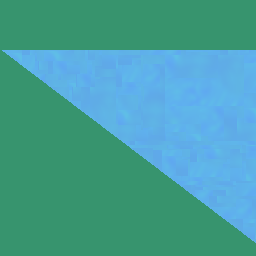
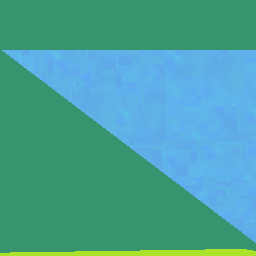
Map information now displayed in bottom-left

Changed region(s): [[0.0, 0.9688, 1.0, 1.0]]

diff --git a/Code/Editor/editor_update.py b/Code/Editor/editor_update.py
@@ -1,6 +1,6 @@
 import math
 from copy import deepcopy
-from Code.utilities import CaseBreak, point_is_in_ltwh, move_number_to_desired_range, percent_to_rgba, base10_to_hex, add_characters_to_front_of_string, get_time, switch_to_base10, rgba_to_glsl, get_rect_minus_borders, round_scaled, COLORS
+from Code.utilities import CaseBreak, point_is_in_ltwh, move_number_to_desired_range, percent_to_rgba, base10_to_hex, add_characters_to_front_of_string, get_time, switch_to_base10, rgba_to_glsl, get_rect_minus_borders, round_scaled, get_text_height, get_text_width, COLORS
 from Code.Editor.editor_utilities import MarqueeRectangleTool, LassoTool, PencilTool, SprayTool, HandTool, BucketTool, LineTool, CurvyLineTool, RectangleTool, EllipseTool, BlurTool, JumbleTool, EyedropTool
 
 
@@ -654,6 +654,8 @@ def update_tools(Singleton, Api, PATH, Screen, gl_context, Render, Time, Keys, C
 def update_tool_attributes(Singleton, Api, PATH, Screen, gl_context, Render, Time, Keys, Cursor):
     # Singleton.tool_attribute_ltwh
     current_tool = Singleton.map.current_tool
+    # information in footer
+    information_lt = [Singleton.palette_padding, Singleton.footer_ltwh[1]]
     # Render.basic_rect_ltwh_with_color_to_quad(Screen, gl_context, 'blank_pixel', Singleton.tool_attribute_ltwh, COLORS['RED'])
 
     try:
@@ -665,6 +667,7 @@ def update_tool_attributes(Singleton, Api, PATH, Screen, gl_context, Render, Tim
                 pass
 
             case PencilTool.INDEX:
+                # brush style
                 # brush thickness
                 Render.basic_rect_ltwh_to_quad(Screen, gl_context, 'brush_shape_circle', [Singleton.tool_attribute_ltwh[0], Singleton.tool_attribute_ltwh[1] + PencilTool.TEXT_PIXEL_THICKNESS, Render.renderable_objects['brush_shape_circle'].ORIGINAL_WIDTH, Render.renderable_objects['brush_shape_circle'].ORIGINAL_HEIGHT])
                 current_tool.brush_thickness_text_input.background_ltwh[0] = Singleton.tool_attribute_ltwh[0] + Render.renderable_objects['brush_shape_circle'].ORIGINAL_WIDTH + PencilTool.TEXT_PIXEL_THICKNESS
@@ -673,6 +676,28 @@ def update_tool_attributes(Singleton, Api, PATH, Screen, gl_context, Render, Tim
                 new_brush_thickness = current_tool.brush_thickness_text_input.current_string
                 if current_tool.brush_thickness_is_valid(new_brush_thickness):
                     current_tool.update_brush_thickness(Render, Screen, gl_context, int(new_brush_thickness))
+                
+                # cursor x, y position
+                if point_is_in_ltwh(Keys.cursor_x_pos.value, Keys.cursor_y_pos.value, Singleton.map.image_space_ltwh):
+                    # crosshair image
+                    CROSSHAIR_PADDING = 4
+                    crosshair_ltwh = [information_lt[0], information_lt[1] + CROSSHAIR_PADDING, Singleton.footer_ltwh[3] - (2 * CROSSHAIR_PADDING), Singleton.footer_ltwh[3] - (2 * CROSSHAIR_PADDING)]
+                    Render.basic_rect_ltwh_to_quad(Screen, gl_context, 'cursor_crosshair', crosshair_ltwh)
+                    information_lt[0] = crosshair_ltwh[0] + crosshair_ltwh[2]
+                    # position of cursor on map
+                    CROSSHAIR_IMAGE_SEPARATION = 12
+                    cursor_x, cursor_y = Singleton.map.get_cursor_position_on_map(Keys)
+                    Render.draw_string_of_characters(Screen, gl_context, f"{cursor_x} {cursor_y}", [information_lt[0] + CROSSHAIR_IMAGE_SEPARATION, information_lt[1] + ((Singleton.footer_ltwh[3] - (get_text_height(Singleton.footer_text_pixel_size) - (2 * Singleton.footer_text_pixel_size))) // 2)], Singleton.footer_text_pixel_size, COLORS['BLACK'])
+                    SEPARATION = 16
+                    information_lt[0] = information_lt[0] + CROSSHAIR_IMAGE_SEPARATION + get_text_width(Render, f"{cursor_x} {cursor_y}", Singleton.footer_text_pixel_size) + SEPARATION
+                # level dimensions image
+                LEVEL_DIMENSIONS_PADDING = 2
+                level_dimensions_padding = [information_lt[0], information_lt[1] + LEVEL_DIMENSIONS_PADDING, Singleton.footer_ltwh[3] - (2 * LEVEL_DIMENSIONS_PADDING), Singleton.footer_ltwh[3] - (2 * LEVEL_DIMENSIONS_PADDING)]
+                Render.basic_rect_ltwh_to_quad(Screen, gl_context, 'level_dimensions', level_dimensions_padding)
+                LEVEL_DIMENSION_SEPARATION = 12
+                information_lt[0] = information_lt[0] + level_dimensions_padding[2] + LEVEL_DIMENSION_SEPARATION
+                # level dimension
+                Render.draw_string_of_characters(Screen, gl_context, f"{Singleton.map.original_map_wh[0]} {Singleton.map.original_map_wh[1]}", [information_lt[0], information_lt[1] + ((Singleton.footer_ltwh[3] - (get_text_height(Singleton.footer_text_pixel_size) - (2 * Singleton.footer_text_pixel_size))) // 2)], Singleton.footer_text_pixel_size, COLORS['BLACK'])
 
             case SprayTool.INDEX:
                 pass

diff --git a/Code/Editor/editor_utilities.py b/Code/Editor/editor_utilities.py
@@ -1598,7 +1598,7 @@ class EditorMap():
             self._calculate_zoom(render_instance, keys_class_instance, horizontal_scroll, vertical_scroll)
 
     def _calculate_zoom(self, render_instance, keys_class_instance, horizontal_scroll, vertical_scroll):
-        original_cursor_x, original_cursor_y = self._get_cursor_position_on_map(keys_class_instance)
+        original_cursor_x, original_cursor_y = self.get_cursor_position_on_map(keys_class_instance)
         cursor_percent_x = (keys_class_instance.cursor_x_pos.value - self.image_space_ltwh[0]) / self.image_space_ltwh[2]
         cursor_percent_y = (keys_class_instance.cursor_y_pos.value - self.image_space_ltwh[1]) / self.image_space_ltwh[3]
 
@@ -1738,7 +1738,7 @@ class EditorMap():
 
                 case PencilTool.INDEX:
                     cursor_on_map = point_is_in_ltwh(keys_class_instance.cursor_x_pos.value, keys_class_instance.cursor_y_pos.value, self.image_space_ltwh)
-                    pos_x, pos_y = self._get_cursor_position_on_map(keys_class_instance)
+                    pos_x, pos_y = self.get_cursor_position_on_map(keys_class_instance)
                     ltrb = self._get_ltrb_pixels_on_map()
 
                     # get the leftest pixel that needs to be drawn
@@ -1894,7 +1894,7 @@ class EditorMap():
                     cursors.add_cursor_this_frame('cursor_eyedrop')
 
                     # get the tile being hovered over
-                    pos_x, pos_y = self._get_cursor_position_on_map(keys_class_instance)
+                    pos_x, pos_y = self.get_cursor_position_on_map(keys_class_instance)
                     tile_x, pixel_x = divmod(pos_x, self.initial_tile_wh[0])
                     tile_y, pixel_y = divmod(pos_y, self.initial_tile_wh[1])
                     tile = self.tile_array[tile_x][tile_y]
@@ -1967,7 +1967,7 @@ class EditorMap():
             self.map_offset_xy[1] += keys_class_instance.cursor_y_pos.delta
             return
 
-    def _get_cursor_position_on_map(self, keys_class_instance):
+    def get_cursor_position_on_map(self, keys_class_instance):
         # x = 0, y = 0 is top-left; x = image_space_ltwh[2], y = image_space_ltwh[3] is bottom-right; x = -1, y = -1 is invalid
         cursor_x, cursor_y = keys_class_instance.cursor_x_pos.value, keys_class_instance.cursor_y_pos.value
         left = math.floor(((cursor_x - self.image_space_ltwh[0]) / self.pixel_scale) - (self.map_offset_xy[0] / self.pixel_scale))

diff --git a/Code/utilities.py b/Code/utilities.py
@@ -311,6 +311,7 @@ IMAGE_PATHS = {
     'cursor_i_beam': [[LOADED_IN_EDITOR], PATH + '\\Images\\not_always_loaded\\cursors\\cursor_i_beam.png'],
     # common
     'editor_circle': [[LOADED_IN_EDITOR], PATH + '\\Images\\not_always_loaded\\editor\\common\\circle.png'],
+    'level_dimensions': [[LOADED_IN_EDITOR], PATH + '\\Images\\not_always_loaded\\editor\\common\\level_dimensions.png'],
     # editor tools on right side of screen
     'Marquee rectangle': [[LOADED_IN_EDITOR], PATH + '\\Images\\not_always_loaded\\editor\\tools\\Marquee rectangle.png'],
     'Lasso':             [[LOADED_IN_EDITOR], PATH + '\\Images\\not_always_loaded\\editor\\tools\\Lasso.png'],

diff --git a/Code/Editor/editor_loop.py b/Code/Editor/editor_loop.py
@@ -121,6 +121,7 @@ class EditorSingleton():
         # footer
         self.footer_color = COLORS['BLUE']
         self.footer_ltwh = [0, 0, 0, self.header_height]
+        self.footer_text_pixel_size = 3
         #
         # add color
         # add/remove color
